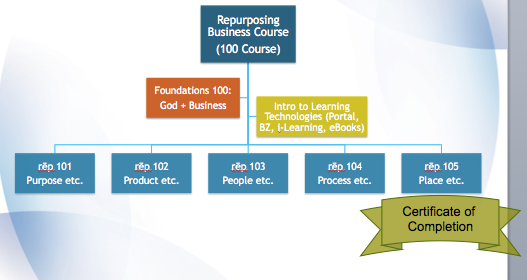
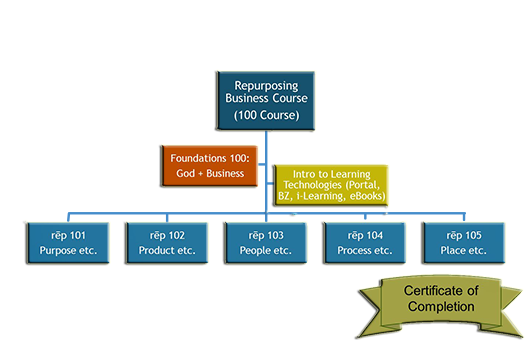
tidying up free assessment

diff --git a/www/assets/css/styles.css b/www/assets/css/styles.css
@@ -824,5 +824,5 @@ table.lemonSummary th { border: 1px solid #808080; padding:5px; margin: 0px 10px
 .bicycleFrame {
 	z-index:-2; width:860px; position:absolute; left:35px; top:-10px;
 }
-.freeassessmentSummary { width:700px; display:block; float:left; padding-right:50px; }
-.hierarchymodel { float:left; padding-top:100px;}
+.freeassessmentSummary { width:500px; display:block; float:left; padding-right:50px; }
+.hierarchymodel { float:left; padding-top:100px;  width: 500px;}

diff --git a/www/free/index.tpl.php b/www/free/index.tpl.php
@@ -32,7 +32,7 @@
 			    graph.fillAlphas = 0.4;
 			    graph.bullet = "round";
 			    graph.valueField = "importance";
-			    graph.balloonText = "Importance: [[importance]]";
+			    graph.balloonText = "[[category]] Importance: [[importance]]";
 			    chart.addGraph(graph);
 			
 			    var graph2 = new AmCharts.AmGraph();
@@ -40,7 +40,7 @@
 			    graph2.fillAlphas = 0.4;
 			    graph2.bullet = "round";
 			    graph2.valueField = "performance";
-			    graph2.balloonText = "Performance: [[performance]]";
+			    graph2.balloonText = "[[category]] Performance: [[performance]]";
 			    chart.addGraph(graph2);
 			 
 			
@@ -78,7 +78,7 @@
                 graphf.fillAlphas = 0.4;
                 graphf.bullet = "round";
                 graphf.valueField = "importance";
-                graphf.balloonText = "Importance: [[importance]]";
+                graphf.balloonText = "[[category]] Importance: [[importance]]";
                 chart2.addGraph(graphf);
 
                 var graphf2 = new AmCharts.AmGraph();
@@ -86,7 +86,7 @@
                 graphf2.fillAlphas = 0.4;
                 graphf2.bullet = "round";
                 graphf2.valueField = "performance";
-                graphf2.balloonText = "Performance: [[performance]]";
+                graphf2.balloonText = "[[category]] Performance: [[performance]]";
                 chart2.addGraph(graphf2);
              
 
@@ -131,7 +131,7 @@
                 graph.fillAlphas = 0.4;
                 graph.bullet = "round";
                 graph.valueField = "importance";
-                graph.balloonText = "Importance: [[importance]]";
+                graph.balloonText = "[[category]] Importance: [[importance]]";
                 chart.addGraph(graph);
 
                 var graph2 = new AmCharts.AmGraph();
@@ -139,7 +139,7 @@
                 graph2.fillAlphas = 0.4;
                 graph2.bullet = "round";
                 graph2.valueField = "performance";
-                graph2.balloonText = "Performance: [[performance]]";
+                graph2.balloonText = "[[category]] Performance: [[performance]]";
                 chart.addGraph(graph2);
              
 
@@ -180,7 +180,7 @@
                 graph.fillAlphas = 0.4;
                 graph.bullet = "round";
                 graph.valueField = "importance";
-                graph.balloonText = "Importance: [[importance]]";
+                graph.balloonText = "[[category]] Importance: [[importance]]";
                 chart.addGraph(graph);
 
                 var graph2 = new AmCharts.AmGraph();
@@ -188,7 +188,7 @@
                 graph2.fillAlphas = 0.4;
                 graph2.bullet = "round";
                 graph2.valueField = "performance";
-                graph2.balloonText = "Performance: [[performance]]";
+                graph2.balloonText = "[[category]] Performance: [[performance]]";
                 chart.addGraph(graph2);
              
 
